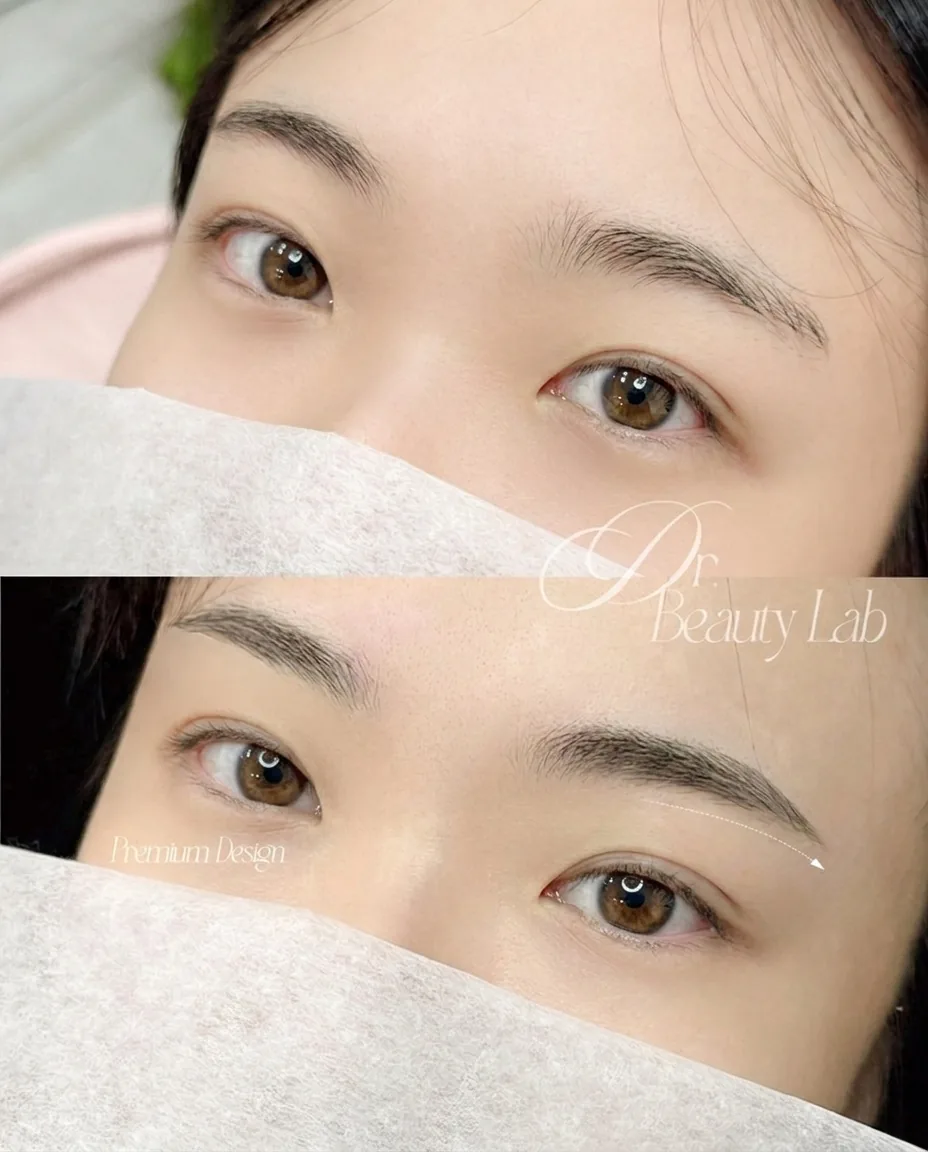
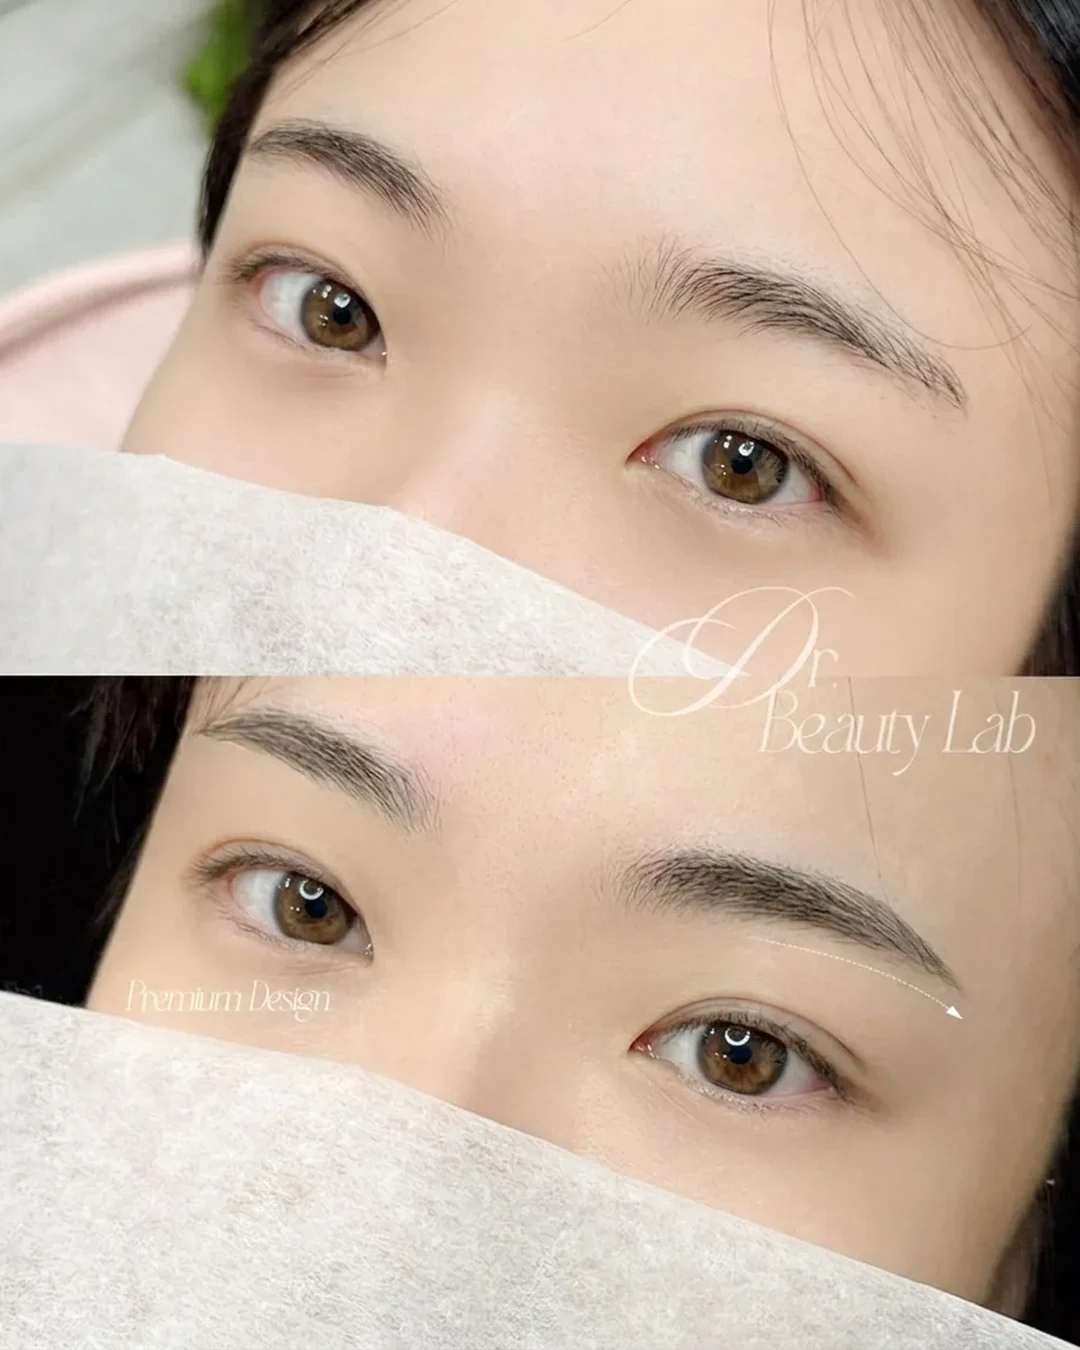
눈썹 사례 사진 7장 1080x1350(4:5)로 크기 통일, 06번 문구 제거
Claude-Session: https://claude.ai/code/session_01GiNsgprQ5Ba6ws2qEsCy3w

diff --git a/ja/brow/index.html b/ja/brow/index.html
@@ -106,7 +106,7 @@ h1 em{font-style:normal;color:var(--acc)}
   margin:0 -22px;padding:0 22px 6px;-webkit-overflow-scrolling:touch;scrollbar-width:none}
 .slider::-webkit-scrollbar{display:none}
 .slide{flex:0 0 86%;scroll-snap-align:center;border-radius:14px;overflow:hidden;background:var(--bg)}
-.slide img{width:100%}
+.slide img{width:100%;aspect-ratio:4/5;object-fit:cover;display:block}
 .slide span{display:block;padding:9px 12px;font-size:11.5px;color:var(--ink-soft);background:#fff}
 .hint{font-size:11px;color:var(--ink-soft);text-align:center;margin:12px 0 0}
 
@@ -435,7 +435,7 @@ body,.wrap *{word-break:normal;line-break:strict;overflow-wrap:anywhere}
   <section>
     <p class="lbl">RESULT</p>
     <h2>言葉より伝わる<br>実際の施術例</h2>
-    <div class="slider"><figure class="slide"><img src="/assets/brow-result-01.webp" alt="女性 · 毛並み眉 施術前後" loading="lazy"><span>女性 · 毛並み眉 施術前後</span></figure><figure class="slide"><img src="/assets/brow-result-02.webp" alt="毛並み眉 · 施術後" loading="lazy"><span>毛並み眉 · 施術後</span></figure><figure class="slide"><img src="/assets/brow-result-03.webp" alt="毛並み眉 · 毛並みのクローズアップ" loading="lazy"><span>毛並み眉 · 毛並みのクローズアップ</span></figure><figure class="slide"><img src="/assets/brow-result-04.webp" alt="毛並み眉 · 施術後クローズアップ" loading="lazy"><span>毛並み眉 · 施術後クローズアップ</span></figure><figure class="slide"><img src="/assets/brow-result-05.webp" alt="男性 · 眉 施術前後" loading="lazy"><span>男性 · 眉 施術前後</span></figure><figure class="slide"><img src="/assets/brow-result-06.webp?v=2" alt="男性 · 既存の眉の修正 + すき間の補正" loading="lazy"><span>男性 · 既存の眉の修正 + すき間の補正</span></figure><figure class="slide"><img src="/assets/brow-result-07.webp?v=3" alt="男性 · 眉 施術前後" loading="lazy"><span>男性 · 眉 施術前後</span></figure></div>
+    <div class="slider"><figure class="slide"><img src="/assets/brow-result-01.webp?v=4" alt="女性 · 毛並み眉 施術前後" loading="lazy"><span>女性 · 毛並み眉 施術前後</span></figure><figure class="slide"><img src="/assets/brow-result-02.webp?v=4" alt="毛並み眉 · 施術後" loading="lazy"><span>毛並み眉 · 施術後</span></figure><figure class="slide"><img src="/assets/brow-result-03.webp?v=4" alt="毛並み眉 · 毛並みのクローズアップ" loading="lazy"><span>毛並み眉 · 毛並みのクローズアップ</span></figure><figure class="slide"><img src="/assets/brow-result-04.webp?v=4" alt="毛並み眉 · 施術後クローズアップ" loading="lazy"><span>毛並み眉 · 施術後クローズアップ</span></figure><figure class="slide"><img src="/assets/brow-result-05.webp?v=4" alt="男性 · 眉 施術前後" loading="lazy"><span>男性 · 眉 施術前後</span></figure><figure class="slide"><img src="/assets/brow-result-06.webp?v=4" alt="男性 · 既存の眉の修正 + すき間の補正" loading="lazy"><span>男性 · 既存の眉の修正 + すき間の補正</span></figure><figure class="slide"><img src="/assets/brow-result-07.webp?v=4" alt="男性 · 眉 施術前後" loading="lazy"><span>男性 · 眉 施術前後</span></figure></div>
     <p class="hint">← スワイプしてご覧ください · 実際の施術例</p>
     <p class="sm" style="margin-top:16px">* 仕上がりと持続期間は、肌質や毛の状態、生活習慣により個人差があります。</p>
   </section>

diff --git a/brow/index.html b/brow/index.html
@@ -106,7 +106,7 @@ h1 em{font-style:normal;color:var(--acc)}
   margin:0 -22px;padding:0 22px 6px;-webkit-overflow-scrolling:touch;scrollbar-width:none}
 .slider::-webkit-scrollbar{display:none}
 .slide{flex:0 0 86%;scroll-snap-align:center;border-radius:14px;overflow:hidden;background:var(--bg)}
-.slide img{width:100%}
+.slide img{width:100%;aspect-ratio:4/5;object-fit:cover;display:block}
 .slide span{display:block;padding:9px 12px;font-size:11.5px;color:var(--ink-soft);background:#fff}
 .hint{font-size:11px;color:var(--ink-soft);text-align:center;margin:12px 0 0}
 
@@ -425,7 +425,7 @@ details .a{padding:0 0 16px;font-size:13.5px;color:var(--ink-soft);line-height:1
   <section>
     <p class="lbl">RESULT</p>
     <h2>말보다 빠른<br>실제 시술 사례</h2>
-    <div class="slider"><figure class="slide"><img src="/assets/brow-result-01.webp" alt="여성 · 결 브로우 시술 전후" loading="lazy"><span>여성 · 결 브로우 시술 전후</span></figure><figure class="slide"><img src="/assets/brow-result-02.webp" alt="결 브로우 · 시술 후" loading="lazy"><span>결 브로우 · 시술 후</span></figure><figure class="slide"><img src="/assets/brow-result-03.webp" alt="결 브로우 · 결 클로즈업" loading="lazy"><span>결 브로우 · 결 클로즈업</span></figure><figure class="slide"><img src="/assets/brow-result-04.webp" alt="결 브로우 · 시술 후 클로즈업" loading="lazy"><span>결 브로우 · 시술 후 클로즈업</span></figure><figure class="slide"><img src="/assets/brow-result-05.webp" alt="남성 · 눈썹 시술 전후" loading="lazy"><span>남성 · 눈썹 시술 전후</span></figure><figure class="slide"><img src="/assets/brow-result-06.webp?v=2" alt="남성 · 기존 눈썹 교정 + 빈 곳 채우기" loading="lazy"><span>남성 · 기존 눈썹 교정 + 빈 곳 채우기</span></figure><figure class="slide"><img src="/assets/brow-result-07.webp?v=3" alt="남성 · 눈썹 시술 전후" loading="lazy"><span>남성 · 눈썹 시술 전후</span></figure></div>
+    <div class="slider"><figure class="slide"><img src="/assets/brow-result-01.webp?v=4" alt="여성 · 결 브로우 시술 전후" loading="lazy"><span>여성 · 결 브로우 시술 전후</span></figure><figure class="slide"><img src="/assets/brow-result-02.webp?v=4" alt="결 브로우 · 시술 후" loading="lazy"><span>결 브로우 · 시술 후</span></figure><figure class="slide"><img src="/assets/brow-result-03.webp?v=4" alt="결 브로우 · 결 클로즈업" loading="lazy"><span>결 브로우 · 결 클로즈업</span></figure><figure class="slide"><img src="/assets/brow-result-04.webp?v=4" alt="결 브로우 · 시술 후 클로즈업" loading="lazy"><span>결 브로우 · 시술 후 클로즈업</span></figure><figure class="slide"><img src="/assets/brow-result-05.webp?v=4" alt="남성 · 눈썹 시술 전후" loading="lazy"><span>남성 · 눈썹 시술 전후</span></figure><figure class="slide"><img src="/assets/brow-result-06.webp?v=4" alt="남성 · 기존 눈썹 교정 + 빈 곳 채우기" loading="lazy"><span>남성 · 기존 눈썹 교정 + 빈 곳 채우기</span></figure><figure class="slide"><img src="/assets/brow-result-07.webp?v=4" alt="남성 · 눈썹 시술 전후" loading="lazy"><span>남성 · 눈썹 시술 전후</span></figure></div>
     <p class="hint">← 옆으로 넘겨보세요 · 실제 시술 사례</p>
     <p class="sm" style="margin-top:16px">* 시술 결과와 유지 기간은 피부 타입과 모발 상태, 생활 습관에 따라 개인차가 있습니다.</p>
   </section>

diff --git a/ad/ja/brow/index.html b/ad/ja/brow/index.html
@@ -101,7 +101,7 @@ h1 em{font-style:normal;color:var(--acc)}
   margin:0 -22px;padding:0 22px 6px;-webkit-overflow-scrolling:touch;scrollbar-width:none}
 .slider::-webkit-scrollbar{display:none}
 .slide{flex:0 0 86%;scroll-snap-align:center;border-radius:14px;overflow:hidden;background:var(--bg)}
-.slide img{width:100%}
+.slide img{width:100%;aspect-ratio:4/5;object-fit:cover;display:block}
 .slide span{display:block;padding:9px 12px;font-size:11.5px;color:var(--ink-soft);background:#fff}
 .hint{font-size:11px;color:var(--ink-soft);text-align:center;margin:12px 0 0}
 
@@ -311,7 +311,7 @@ fbq('track','PageView');
   <section>
     <p class="lbl">RESULT</p>
     <h2>言葉より伝わる<br>実際の施術例</h2>
-    <div class="slider"><figure class="slide"><img src="/assets/brow-result-01.webp" alt="女性 · 毛並み眉 施術前後" loading="lazy"><span>女性 · 毛並み眉 施術前後</span></figure><figure class="slide"><img src="/assets/brow-result-02.webp" alt="毛並み眉 · 施術後" loading="lazy"><span>毛並み眉 · 施術後</span></figure><figure class="slide"><img src="/assets/brow-result-03.webp" alt="毛並み眉 · 毛並みのクローズアップ" loading="lazy"><span>毛並み眉 · 毛並みのクローズアップ</span></figure><figure class="slide"><img src="/assets/brow-result-04.webp" alt="毛並み眉 · 施術後クローズアップ" loading="lazy"><span>毛並み眉 · 施術後クローズアップ</span></figure><figure class="slide"><img src="/assets/brow-result-05.webp" alt="男性 · 眉 施術前後" loading="lazy"><span>男性 · 眉 施術前後</span></figure><figure class="slide"><img src="/assets/brow-result-06.webp?v=2" alt="男性 · 既存の眉の修正 + すき間の補正" loading="lazy"><span>男性 · 既存の眉の修正 + すき間の補正</span></figure><figure class="slide"><img src="/assets/brow-result-07.webp?v=3" alt="男性 · 眉 施術前後" loading="lazy"><span>男性 · 眉 施術前後</span></figure></div>
+    <div class="slider"><figure class="slide"><img src="/assets/brow-result-01.webp?v=4" alt="女性 · 毛並み眉 施術前後" loading="lazy"><span>女性 · 毛並み眉 施術前後</span></figure><figure class="slide"><img src="/assets/brow-result-02.webp?v=4" alt="毛並み眉 · 施術後" loading="lazy"><span>毛並み眉 · 施術後</span></figure><figure class="slide"><img src="/assets/brow-result-03.webp?v=4" alt="毛並み眉 · 毛並みのクローズアップ" loading="lazy"><span>毛並み眉 · 毛並みのクローズアップ</span></figure><figure class="slide"><img src="/assets/brow-result-04.webp?v=4" alt="毛並み眉 · 施術後クローズアップ" loading="lazy"><span>毛並み眉 · 施術後クローズアップ</span></figure><figure class="slide"><img src="/assets/brow-result-05.webp?v=4" alt="男性 · 眉 施術前後" loading="lazy"><span>男性 · 眉 施術前後</span></figure><figure class="slide"><img src="/assets/brow-result-06.webp?v=4" alt="男性 · 既存の眉の修正 + すき間の補正" loading="lazy"><span>男性 · 既存の眉の修正 + すき間の補正</span></figure><figure class="slide"><img src="/assets/brow-result-07.webp?v=4" alt="男性 · 眉 施術前後" loading="lazy"><span>男性 · 眉 施術前後</span></figure></div>
     <p class="hint">← スワイプしてご覧ください · 実際の施術例</p>
     <p class="sm" style="margin-top:16px">* 仕上がりと持続期間は、肌質や毛の状態、生活習慣により個人差があります。</p>
   </section>

diff --git a/ad/brow/index.html b/ad/brow/index.html
@@ -101,7 +101,7 @@ h1 em{font-style:normal;color:var(--acc)}
   margin:0 -22px;padding:0 22px 6px;-webkit-overflow-scrolling:touch;scrollbar-width:none}
 .slider::-webkit-scrollbar{display:none}
 .slide{flex:0 0 86%;scroll-snap-align:center;border-radius:14px;overflow:hidden;background:var(--bg)}
-.slide img{width:100%}
+.slide img{width:100%;aspect-ratio:4/5;object-fit:cover;display:block}
 .slide span{display:block;padding:9px 12px;font-size:11.5px;color:var(--ink-soft);background:#fff}
 .hint{font-size:11px;color:var(--ink-soft);text-align:center;margin:12px 0 0}
 
@@ -309,7 +309,7 @@ fbq('track','PageView');
   <section>
     <p class="lbl">RESULT</p>
     <h2>말보다 빠른<br>실제 시술 사례</h2>
-    <div class="slider"><figure class="slide"><img src="/assets/brow-result-01.webp" alt="여성 · 결 브로우 시술 전후" loading="lazy"><span>여성 · 결 브로우 시술 전후</span></figure><figure class="slide"><img src="/assets/brow-result-02.webp" alt="결 브로우 · 시술 후" loading="lazy"><span>결 브로우 · 시술 후</span></figure><figure class="slide"><img src="/assets/brow-result-03.webp" alt="결 브로우 · 결 클로즈업" loading="lazy"><span>결 브로우 · 결 클로즈업</span></figure><figure class="slide"><img src="/assets/brow-result-04.webp" alt="결 브로우 · 시술 후 클로즈업" loading="lazy"><span>결 브로우 · 시술 후 클로즈업</span></figure><figure class="slide"><img src="/assets/brow-result-05.webp" alt="남성 · 눈썹 시술 전후" loading="lazy"><span>남성 · 눈썹 시술 전후</span></figure><figure class="slide"><img src="/assets/brow-result-06.webp?v=2" alt="남성 · 기존 눈썹 교정 + 빈 곳 채우기" loading="lazy"><span>남성 · 기존 눈썹 교정 + 빈 곳 채우기</span></figure><figure class="slide"><img src="/assets/brow-result-07.webp?v=3" alt="남성 · 눈썹 시술 전후" loading="lazy"><span>남성 · 눈썹 시술 전후</span></figure></div>
+    <div class="slider"><figure class="slide"><img src="/assets/brow-result-01.webp?v=4" alt="여성 · 결 브로우 시술 전후" loading="lazy"><span>여성 · 결 브로우 시술 전후</span></figure><figure class="slide"><img src="/assets/brow-result-02.webp?v=4" alt="결 브로우 · 시술 후" loading="lazy"><span>결 브로우 · 시술 후</span></figure><figure class="slide"><img src="/assets/brow-result-03.webp?v=4" alt="결 브로우 · 결 클로즈업" loading="lazy"><span>결 브로우 · 결 클로즈업</span></figure><figure class="slide"><img src="/assets/brow-result-04.webp?v=4" alt="결 브로우 · 시술 후 클로즈업" loading="lazy"><span>결 브로우 · 시술 후 클로즈업</span></figure><figure class="slide"><img src="/assets/brow-result-05.webp?v=4" alt="남성 · 눈썹 시술 전후" loading="lazy"><span>남성 · 눈썹 시술 전후</span></figure><figure class="slide"><img src="/assets/brow-result-06.webp?v=4" alt="남성 · 기존 눈썹 교정 + 빈 곳 채우기" loading="lazy"><span>남성 · 기존 눈썹 교정 + 빈 곳 채우기</span></figure><figure class="slide"><img src="/assets/brow-result-07.webp?v=4" alt="남성 · 눈썹 시술 전후" loading="lazy"><span>남성 · 눈썹 시술 전후</span></figure></div>
     <p class="hint">← 옆으로 넘겨보세요 · 실제 시술 사례</p>
     <p class="sm" style="margin-top:16px">* 시술 결과와 유지 기간은 피부 타입과 모발 상태, 생활 습관에 따라 개인차가 있습니다.</p>
   </section>

diff --git a/en/brow/index.html b/en/brow/index.html
@@ -106,7 +106,7 @@ h1 em{font-style:normal;color:var(--acc)}
   margin:0 -22px;padding:0 22px 6px;-webkit-overflow-scrolling:touch;scrollbar-width:none}
 .slider::-webkit-scrollbar{display:none}
 .slide{flex:0 0 86%;scroll-snap-align:center;border-radius:14px;overflow:hidden;background:var(--bg)}
-.slide img{width:100%}
+.slide img{width:100%;aspect-ratio:4/5;object-fit:cover;display:block}
 .slide span{display:block;padding:9px 12px;font-size:11.5px;color:var(--ink-soft);background:#fff}
 .hint{font-size:11px;color:var(--ink-soft);text-align:center;margin:12px 0 0}
 
@@ -433,7 +433,7 @@ details .a{padding:0 0 16px;font-size:13.5px;color:var(--ink-soft);line-height:1
   <section>
     <p class="lbl">RESULT</p>
     <h2>Let the results<br>speak</h2>
-    <div class="slider"><figure class="slide"><img src="/assets/brow-result-01.webp" alt="Female · Hair-stroke brows, before &amp; after" loading="lazy"><span>Female · Hair-stroke brows, before &amp; after</span></figure><figure class="slide"><img src="/assets/brow-result-02.webp" alt="Hair-stroke brows · After" loading="lazy"><span>Hair-stroke brows · After</span></figure><figure class="slide"><img src="/assets/brow-result-03.webp" alt="Hair-stroke brows · Close-up of strokes" loading="lazy"><span>Hair-stroke brows · Close-up of strokes</span></figure><figure class="slide"><img src="/assets/brow-result-04.webp" alt="Hair-stroke brows · Close-up after" loading="lazy"><span>Hair-stroke brows · Close-up after</span></figure><figure class="slide"><img src="/assets/brow-result-05.webp" alt="Male · Brows before &amp; after" loading="lazy"><span>Male · Brows before &amp; after</span></figure><figure class="slide"><img src="/assets/brow-result-06.webp?v=2" alt="Male · Reshaping + filling gaps" loading="lazy"><span>Male · Reshaping + filling gaps</span></figure><figure class="slide"><img src="/assets/brow-result-07.webp?v=3" alt="Male · Brows before &amp; after" loading="lazy"><span>Male · Brows before &amp; after</span></figure></div>
+    <div class="slider"><figure class="slide"><img src="/assets/brow-result-01.webp?v=4" alt="Female · Hair-stroke brows, before &amp; after" loading="lazy"><span>Female · Hair-stroke brows, before &amp; after</span></figure><figure class="slide"><img src="/assets/brow-result-02.webp?v=4" alt="Hair-stroke brows · After" loading="lazy"><span>Hair-stroke brows · After</span></figure><figure class="slide"><img src="/assets/brow-result-03.webp?v=4" alt="Hair-stroke brows · Close-up of strokes" loading="lazy"><span>Hair-stroke brows · Close-up of strokes</span></figure><figure class="slide"><img src="/assets/brow-result-04.webp?v=4" alt="Hair-stroke brows · Close-up after" loading="lazy"><span>Hair-stroke brows · Close-up after</span></figure><figure class="slide"><img src="/assets/brow-result-05.webp?v=4" alt="Male · Brows before &amp; after" loading="lazy"><span>Male · Brows before &amp; after</span></figure><figure class="slide"><img src="/assets/brow-result-06.webp?v=4" alt="Male · Reshaping + filling gaps" loading="lazy"><span>Male · Reshaping + filling gaps</span></figure><figure class="slide"><img src="/assets/brow-result-07.webp?v=4" alt="Male · Brows before &amp; after" loading="lazy"><span>Male · Brows before &amp; after</span></figure></div>
     <p class="hint">← Swipe · Real client results</p>
     <p class="sm" style="margin-top:16px">* Results and longevity vary with skin type, hair condition and lifestyle.</p>
   </section>

diff --git a/zh-tw/brow/index.html b/zh-tw/brow/index.html
@@ -106,7 +106,7 @@ h1 em{font-style:normal;color:var(--acc)}
   margin:0 -22px;padding:0 22px 6px;-webkit-overflow-scrolling:touch;scrollbar-width:none}
 .slider::-webkit-scrollbar{display:none}
 .slide{flex:0 0 86%;scroll-snap-align:center;border-radius:14px;overflow:hidden;background:var(--bg)}
-.slide img{width:100%}
+.slide img{width:100%;aspect-ratio:4/5;object-fit:cover;display:block}
 .slide span{display:block;padding:9px 12px;font-size:11.5px;color:var(--ink-soft);background:#fff}
 .hint{font-size:11px;color:var(--ink-soft);text-align:center;margin:12px 0 0}
 
@@ -435,7 +435,7 @@ body,.wrap *{word-break:normal;line-break:strict;overflow-wrap:anywhere}
   <section>
     <p class="lbl">RESULT</p>
     <h2>比言語更有說服力的<br>真實案例</h2>
-    <div class="slider"><figure class="slide"><img src="/assets/brow-result-01.webp" alt="女性 · 毛流眉 施作前後" loading="lazy"><span>女性 · 毛流眉 施作前後</span></figure><figure class="slide"><img src="/assets/brow-result-02.webp" alt="毛流眉 · 施作後" loading="lazy"><span>毛流眉 · 施作後</span></figure><figure class="slide"><img src="/assets/brow-result-03.webp" alt="毛流眉 · 毛流特寫" loading="lazy"><span>毛流眉 · 毛流特寫</span></figure><figure class="slide"><img src="/assets/brow-result-04.webp" alt="毛流眉 · 施作後特寫" loading="lazy"><span>毛流眉 · 施作後特寫</span></figure><figure class="slide"><img src="/assets/brow-result-05.webp" alt="男性 · 眉毛 施作前後" loading="lazy"><span>男性 · 眉毛 施作前後</span></figure><figure class="slide"><img src="/assets/brow-result-06.webp?v=2" alt="男性 · 修正原有眉型 + 補空缺" loading="lazy"><span>男性 · 修正原有眉型 + 補空缺</span></figure><figure class="slide"><img src="/assets/brow-result-07.webp?v=3" alt="男性 · 眉毛 施作前後" loading="lazy"><span>男性 · 眉毛 施作前後</span></figure></div>
+    <div class="slider"><figure class="slide"><img src="/assets/brow-result-01.webp?v=4" alt="女性 · 毛流眉 施作前後" loading="lazy"><span>女性 · 毛流眉 施作前後</span></figure><figure class="slide"><img src="/assets/brow-result-02.webp?v=4" alt="毛流眉 · 施作後" loading="lazy"><span>毛流眉 · 施作後</span></figure><figure class="slide"><img src="/assets/brow-result-03.webp?v=4" alt="毛流眉 · 毛流特寫" loading="lazy"><span>毛流眉 · 毛流特寫</span></figure><figure class="slide"><img src="/assets/brow-result-04.webp?v=4" alt="毛流眉 · 施作後特寫" loading="lazy"><span>毛流眉 · 施作後特寫</span></figure><figure class="slide"><img src="/assets/brow-result-05.webp?v=4" alt="男性 · 眉毛 施作前後" loading="lazy"><span>男性 · 眉毛 施作前後</span></figure><figure class="slide"><img src="/assets/brow-result-06.webp?v=4" alt="男性 · 修正原有眉型 + 補空缺" loading="lazy"><span>男性 · 修正原有眉型 + 補空缺</span></figure><figure class="slide"><img src="/assets/brow-result-07.webp?v=4" alt="男性 · 眉毛 施作前後" loading="lazy"><span>男性 · 眉毛 施作前後</span></figure></div>
     <p class="hint">← 向左滑動 · 真實施作案例</p>
     <p class="sm" style="margin-top:16px">* 施作效果與維持時間，會因膚質、毛髮狀態與生活習慣而有個人差異。</p>
   </section>
